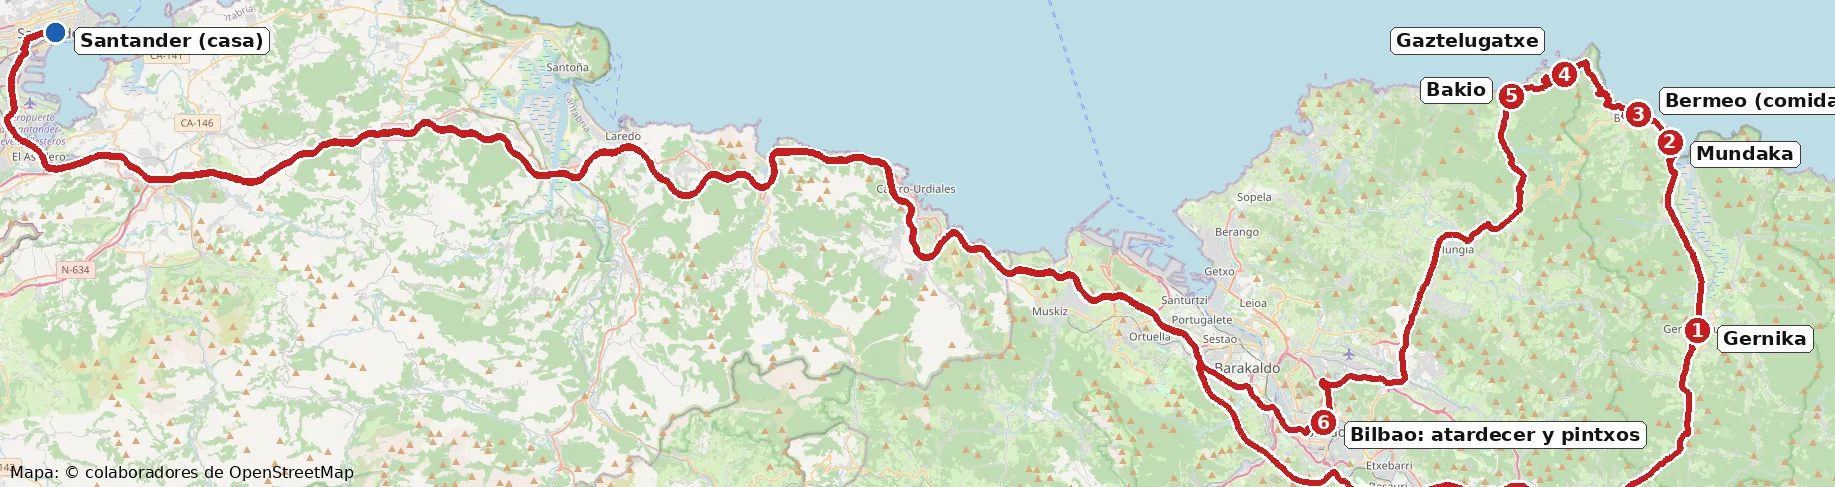
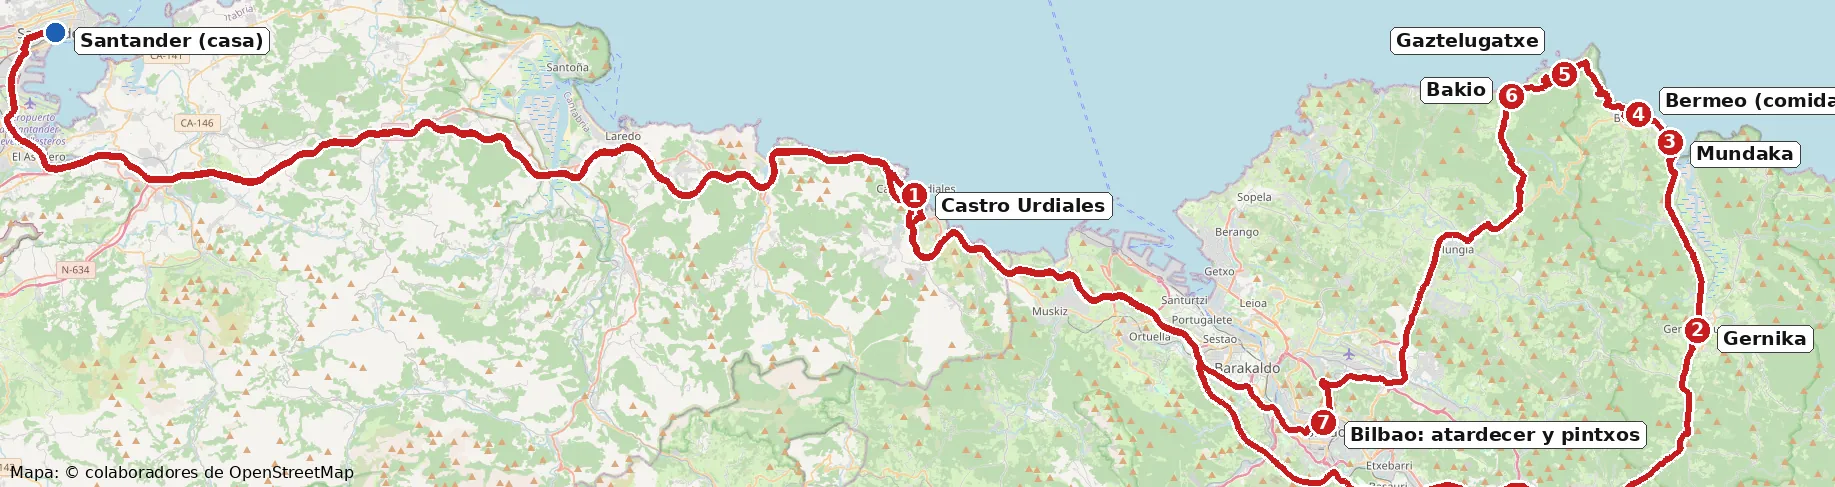
Jueves: el plan C añade la parada en Castro Urdiales antes de los pueblos
Claude-Session: https://claude.ai/code/session_01RZ6AxQRaqfFkeyowc2yCCk

diff --git a/js/datos.js b/js/datos.js
@@ -379,7 +379,7 @@ const DIAS = [
     items: ["fuentede", "aliva", "iguedri", "horcados", "mogrovejo", "potes"], alt: ["santacatalina", "toribio"] },
   { k: "jue", d: "Jueves", n: 15, f: "2026-10-15", wx: "☀", p: "0% lluvia", gente: 6, quien: "Los seis", t: "Pintxos en Bilbao y la vuelta de Gaztelugatxe", fuente: "met.no, 14-oct",
     meteo: [43.26, -2.93], marea: "bermeo",
-    nota: "Previsión del miércoles por la noche (met.no): sol todo el día, 24–26 °C en Bilbao y 21–23 °C en la costa, sin lluvia. Salida sobre las 10:45. Tres planes para votar: el C hace primero los pueblos (Gernika, Mundaka, Bermeo y Gaztelugatxe) y deja Bilbao para el atardecer y la cena de pintxos; el A y el B comen de pintxos en Bilbao y hacen la vuelta que recomienda Nacho por la tarde.",
+    nota: "Previsión del miércoles por la noche (met.no): sol todo el día, 24–26 °C en Bilbao y 21–23 °C en la costa, sin lluvia. Salida sobre las 10:45. Tres planes para votar: el C hace primero Castro y los pueblos (Gernika, Mundaka, Bermeo y Gaztelugatxe) y deja Bilbao para el atardecer y la cena de pintxos; el A y el B comen de pintxos en Bilbao y hacen la vuelta que recomienda Nacho por la tarde.",
     avisos: ["Gaztelugatxe: el jueves el acceso es libre, sin reserva. Aparcamientos: uno público de 22 plazas en Urizarreta, otro privado de pago al lado (Eneperi, unos 3,5 €) y el de Lurgorri (57 plazas), junto al acceso de Ermu. Se llenan de 10 a 16 h.",
       "La bajada a la ermita por Urizarreta son 1,2 km muy empinados y luego 241 escalones; la vuelta por Ermu, 1,6 km más suaves. Calzado cómodo y agua.",
       "Para salir de Bilbao hacia Bakio: puente de La Salve, junto al Guggenheim, y los túneles de Artxanda (de peaje) en dirección al aeropuerto y Mungia.",
@@ -415,7 +415,7 @@ const DIAS = [
 // Fotos de los puntos de cada ruta del miércoles (rutas/fotos/, de Wikimedia Commons; los créditos están en FOTOS)
 const FOTOS_RUTA = {
   ja: [["rutas/fotos/castro-1.webp", "Castro Urdiales"], ["rutas/fotos/cascoviejo-1.webp", "Plaza Nueva: aquí empiezan los pintxos"], ["rutas/fotos/guggenheim-3.webp", "Puppy, en el Guggenheim"], ["rutas/fotos/gaztelugatxe-1.webp", "San Juan de Gaztelugatxe"], ["rutas/fotos/gaztelugatxe-2.webp", "Los 241 escalones"], ["rutas/fotos/bermeo-1.webp", "Bermeo"], ["rutas/fotos/mundaka-1.webp", "Mundaka"]],
-  jc: [["rutas/fotos/mundaka-1.webp", "Mundaka"], ["rutas/fotos/bermeo-1.webp", "Bermeo, para comer"], ["rutas/fotos/gaztelugatxe-1.webp", "San Juan de Gaztelugatxe"], ["rutas/fotos/gaztelugatxe-2.webp", "Los 241 escalones"], ["rutas/fotos/guggenheim-1.webp", "Bilbao al atardecer"], ["rutas/fotos/cascoviejo-1.webp", "Cena de pintxos en la Plaza Nueva"]],
+  jc: [["rutas/fotos/castro-1.webp", "Castro Urdiales"], ["rutas/fotos/mundaka-1.webp", "Mundaka"], ["rutas/fotos/bermeo-1.webp", "Bermeo, para comer"], ["rutas/fotos/gaztelugatxe-1.webp", "San Juan de Gaztelugatxe"], ["rutas/fotos/gaztelugatxe-2.webp", "Los 241 escalones"], ["rutas/fotos/guggenheim-1.webp", "Bilbao al atardecer"], ["rutas/fotos/cascoviejo-1.webp", "Cena de pintxos en la Plaza Nueva"]],
   jb: [["rutas/fotos/guggenheim-1.webp", "El Guggenheim y la ría"], ["rutas/fotos/cascoviejo-1.webp", "Plaza Nueva y pintxos"], ["rutas/fotos/gaztelugatxe-1.webp", "San Juan de Gaztelugatxe"], ["rutas/fotos/bermeo-1.webp", "Bermeo"], ["rutas/fotos/mundaka-3.webp", "Mundaka y la ría de Urdaibai"]],
   r1: [["rutas/fotos/fuentede-1.webp", "El teleférico: 753 m en 4 minutos"], ["rutas/fotos/fuentede-2.webp", "La pista desde el Cable"], ["rutas/fotos/aliva-4.webp", "Las praderas de Áliva"], ["rutas/fotos/iguedri-4.webp", "Puertos de Áliva"], ["rutas/fotos/aliva-1.webp", "Bajando por Áliva"], ["rutas/fotos/iguedri-3.webp", "Áliva, entre los macizos central y oriental"], ["rutas/fotos/mogrovejo-1.webp", "Mogrovejo, de vuelta"]],
   r2: [["rutas/fotos/fuentede-1.webp", "El teleférico: 753 m en 4 minutos"], ["rutas/fotos/lloroza-1.webp", "Lagos de Lloroza"], ["rutas/fotos/horcados-4.webp", "La subida hacia Horcados Rojos"], ["rutas/fotos/aliva-4.webp", "Las praderas de Áliva"], ["rutas/fotos/iguedri-4.webp", "Puertos de Áliva"], ["rutas/fotos/aliva-1.webp", "Bajando por Áliva"], ["rutas/fotos/potes-1.webp", "Potes, para cenar"]],
@@ -501,22 +501,24 @@ const PLANES = {
       contras: ["No paráis en ningún pueblo antes de Bilbao", "Gaztelugatxe a media tarde, con algo más de gente"],
       sitios: ["guggenheim", "cascoviejo", "gaztelugatxe", "bermeo", "mundaka"],
       comer: ["r-gure-toki", "r-sorginzulo", "r-santa-maria", "r-txiriboga", "r-motrikes", "r-bacaicoa", "r-el-globo", "r-taberna-auzokoa"] },
-    { id: "p-jue-d", letra: "C", n: "Primero los pueblos (Gernika, Mundaka, Bermeo y Gaztelugatxe) y Bilbao por la tarde", rec: true,
-      lema: "La vuelta de Nacho al revés: los pueblos de Urdaibai de día, comida junto al mar en Bermeo, Gaztelugatxe por la tarde y Bilbao al atardecer para cenar de pintxos.",
-      ritmo: "Intenso", coche: "≈ 4 h en total", datos: ["☀ Sol y 24–26 °C", "🍽 Comida en Bermeo", "🍢 Pintxos de cena en Bilbao", "🏠 Vuelta sobre las 22:45"],
+    { id: "p-jue-d", letra: "C", n: "Castro, los pueblos (Gernika, Mundaka, Bermeo y Gaztelugatxe) y Bilbao por la tarde", rec: true,
+      lema: "Castro de camino, la vuelta de Nacho al revés con comida junto al mar en Bermeo, Gaztelugatxe a última hora de la tarde y Bilbao al atardecer para cenar de pintxos.",
+      ritmo: "Intenso", coche: "≈ 4 h 30 en total", datos: ["☀ Sol y 24–26 °C", "🍽 Comida en Bermeo", "🍢 Pintxos de cena en Bilbao", "🏠 Vuelta sobre las 23:00"],
       fotos: FOTOS_RUTA.jc,
-      horario: [["10:45", "Salida hacia Gernika (1 h 30 por la A-8, saliendo en Amorebieta)"],
-        ["12:15", "Gernika: el Árbol y la Casa de Juntas (abre de 10:00 a 14:00)"],
-        ["13:20", "Mundaka (20 min): el puerto y la vista de la ría de Urdaibai"],
-        ["14:00", "Bermeo (10 min): comida en el puerto. Pintxos en el Batun Batun (4,5) o menú en el Artza (4,2). El Toki Alai cierra los jueves"],
-        ["15:30", "San Juan de Gaztelugatxe (15 min): bajada, los 241 escalones, la ermita y la campana (unas 2 h). Desde Bermeo, el primer aparcamiento es el de Lurgorri"],
-        ["17:40", "Bakio de pasada y a Bilbao por Mungia y los túneles de Artxanda (40 min). Aparcad junto al Guggenheim"],
-        ["18:30", "El Guggenheim por fuera y la ría al atardecer (19:28): Puppy, la araña Mamá, el Zubizuri y el Arenal"],
-        ["19:30", "Cena de pintxos por el Casco Viejo: a esa hora hay más ambiente y el Motrikes ya ha vuelto a abrir"],
+      horario: [["10:45", "Salida hacia Castro Urdiales (50 min por la A-8)"],
+        ["11:35", "Castro Urdiales: el puerto, la iglesia de Santa María, el castillo-faro y el puente medieval (45 min). Parking Amestoy"],
+        ["12:20", "A Gernika (1 h, saliendo de la A-8 en Amorebieta)"],
+        ["13:20", "Gernika: el Árbol y la Casa de Juntas, que cierra a las 14:00"],
+        ["14:00", "Mundaka (20 min): el puerto y la vista de la ría de Urdaibai"],
+        ["14:45", "Bermeo (10 min): comida en el puerto. Pintxos en el Batun Batun (4,5) o menú en el Artza (4,2). El Toki Alai cierra los jueves"],
+        ["16:00", "San Juan de Gaztelugatxe (15 min): bajada, los 241 escalones, la ermita y la campana (unas 2 h). A partir de las 16:00 se aparca mejor; desde Bermeo, el primero es el de Lurgorri"],
+        ["18:15", "A Bilbao por Bakio, Mungia y los túneles de Artxanda (40 min). Aparcad junto al Guggenheim"],
+        ["19:00", "El Guggenheim y la ría con la última luz (el sol se pone a las 19:28)"],
+        ["19:45", "Cena de pintxos por el Casco Viejo"],
         ["21:45", "Vuelta a Santander (1 h)"]],
-      pros: ["Veis los pueblos de día y con la Casa de Juntas de Gernika abierta", "Coméis junto al mar en Bermeo", "Bilbao a la mejor hora para los pintxos, y la vuelta desde Bilbao es más corta (1 h)"],
-      contras: ["Gaztelugatxe a media tarde, con los aparcamientos aún llenos hasta las 16:00", "Sin Castro ni tour de San Mamés (llegáis a Bilbao después del último acceso)", "Los pintxos son de cena, no de comida"],
-      sitios: ["mundaka", "bermeo", "gaztelugatxe", "guggenheim", "cascoviejo"],
+      pros: ["Castro os pilla de camino: apenas añade coche", "Pueblos de día y comida junto al mar", "Gaztelugatxe cuando ya se vacían los aparcamientos", "Bilbao a la mejor hora para los pintxos, y la vuelta desde Bilbao es de 1 h"],
+      contras: ["Día largo: volvéis sobre las 23:00", "Gernika con prisa: la Casa de Juntas cierra a las 14:00", "Sin tour de San Mamés", "Si salís más tarde de las 11:00, saltaos Gernika o Castro"],
+      sitios: ["castro", "mundaka", "bermeo", "gaztelugatxe", "guggenheim", "cascoviejo"],
       comer: ["r-batun-batun", "r-artza", "r-gure-toki", "r-santa-maria", "r-txiriboga", "r-motrikes", "r-bacaicoa"] }
   ],
   mie: [
@@ -665,7 +667,7 @@ const PLATOS = [
 const ESPECIAL = {
   k: "jue", fecha: "2026-10-15", tab: "⭐ Jueves", def: "c", orden: ["c", "a", "b"],
   titulo: "Jueves 15: pintxos en Bilbao y la vuelta de Gaztelugatxe",
-  intro: "Tres planes: el C (primero los pueblos de Urdaibai y Gaztelugatxe, y Bilbao al atardecer para cenar de pintxos), el A (Castro, pintxos de comida en Bilbao y por la tarde la vuelta que recomienda Nacho) y el B (como el A, sin Castro). Cada parada tiene su botón para abrirla en Google Maps.",
+  intro: "Tres planes: el C (Castro, los pueblos de Urdaibai y Gaztelugatxe, y Bilbao al atardecer para cenar de pintxos), el A (Castro, pintxos de comida en Bilbao y por la tarde la vuelta que recomienda Nacho) y el B (como el A, sin Castro). Cada parada tiene su botón para abrirla en Google Maps.",
   tiempo: "☀ Sol todo el día · 24–26 °C en Bilbao y 21–23 °C en la costa · sin lluvia",
   mapa: "rutas/jueves-mapa.webp",
   planes: {
@@ -682,15 +684,17 @@ const ESPECIAL = {
       { h: "19:10", t: "Bermeo", s: "bermeo", d: "El puerto viejo con la puesta de sol (19:28).", c: [43.4207962, -2.7197421], modo: "driving" },
       { h: "19:45", t: "Mundaka y Gernika", s: "mundaka", d: "La ría de Urdaibai desde Mundaka y, ya de noche, Gernika. Cena de pintxos en la Taberna Auzokoa (Gernika) o en el Batun Batun (Bermeo).", c: [43.3142186, -2.6774263], modo: "driving", r: "r-taberna-auzokoa" },
       { h: "21:00", t: "Vuelta a casa", d: "1 h 30–1 h 45 por la A-8. Conduce quien no haya bebido.", c: [43.4619, -3.8066], modo: "driving" }] },
-    c: { n: "Plan C · pueblos y Bilbao de noche", vuelta: "22:45", mapa: "rutas/jueves-mapa-c.webp", paradas: [
-      { h: "10:45", t: "Salida hacia Gernika", d: "1 h 30 por la A-8, saliendo en Amorebieta.", c: [43.3132097, -2.6796198], modo: "driving" },
-      { h: "12:15", t: "Gernika", d: "El Árbol y la Casa de Juntas, que abre de 10:00 a 14:00. Unos 45 min.", c: [43.3132097, -2.6796198], modo: "walking" },
-      { h: "13:20", t: "Mundaka", s: "mundaka", d: "El puerto y la vista de la ría de Urdaibai. Media hora.", c: [43.4072, -2.6983], modo: "driving" },
-      { h: "14:00", t: "Comer en Bermeo", s: "bermeo", d: "En el puerto viejo: pintxos en el Batun Batun (4,5) o menú del día en el Artza (4,2). El Toki Alai cierra los jueves.", c: [43.4207962, -2.7197421], modo: "driving", r: "r-batun-batun" },
-      { h: "15:30", t: "San Juan de Gaztelugatxe", s: "gaztelugatxe", d: "Bajada, los 241 escalones, la ermita y la campana. Unas 2 h. Viniendo de Bermeo, el primer aparcamiento es el de Lurgorri; si está lleno, el de pago de Eneperi.", c: [43.4407664, -2.7707756], modo: "driving", ancla: "esp-gaztelugatxe" },
-      { h: "17:40", t: "A Bilbao", d: "Bakio de pasada, Mungia y los túneles de Artxanda (de peaje). 40 min. Aparcad junto al Guggenheim: plaza Euskadi o Palacio Euskalduna.", c: [43.2671467, -2.93606], modo: "driving" },
-      { h: "18:30", t: "El Guggenheim y la ría al atardecer", s: "guggenheim", d: "Puppy, la araña Mamá, el Zubizuri y el Arenal. El sol se pone a las 19:28.", c: [43.267678, -2.9345], modo: "walking" },
-      { h: "19:30", t: "Cena de pintxos por el Casco Viejo", d: "A esa hora hay más ambiente, y el Motrikes y la Taberna Basaras ya han vuelto a abrir.", ancla: "esp-pintxos" },
+    c: { n: "Plan C · Castro, pueblos y Bilbao de noche", vuelta: "23:00", mapa: "rutas/jueves-mapa-c.webp", paradas: [
+      { h: "10:45", t: "Salida hacia Castro Urdiales", d: "50 min por la A-8. Se aparca en el parking subterráneo Amestoy, junto al paseo.", c: [43.3804468, -3.2167861], modo: "driving" },
+      { h: "11:35", t: "Castro Urdiales", s: "castro", d: "El puerto, la iglesia gótica de Santa María, el castillo-faro de Santa Ana y el puente medieval. 45 min.", c: [43.3829, -3.2151], modo: "walking" },
+      { h: "12:20", t: "A Gernika", d: "1 h por la A-8, saliendo en Amorebieta.", c: [43.3132097, -2.6796198], modo: "driving" },
+      { h: "13:20", t: "Gernika", d: "El Árbol y la Casa de Juntas, que cierra a las 14:00.", c: [43.3132097, -2.6796198], modo: "walking" },
+      { h: "14:00", t: "Mundaka", s: "mundaka", d: "El puerto y la vista de la ría de Urdaibai. 20 min.", c: [43.4072, -2.6983], modo: "driving" },
+      { h: "14:45", t: "Comer en Bermeo", s: "bermeo", d: "En el puerto viejo: pintxos en el Batun Batun (4,5) o menú en el Artza (4,2). El Toki Alai cierra los jueves.", c: [43.4207962, -2.7197421], modo: "driving", r: "r-batun-batun" },
+      { h: "16:00", t: "San Juan de Gaztelugatxe", s: "gaztelugatxe", d: "Bajada, los 241 escalones, la ermita y la campana. Unas 2 h. A esta hora se aparca mejor; viniendo de Bermeo, el primero es el de Lurgorri.", c: [43.4407664, -2.7707756], modo: "driving", ancla: "esp-gaztelugatxe" },
+      { h: "18:15", t: "A Bilbao", d: "Bakio, Mungia y los túneles de Artxanda (de peaje). 40 min. Aparcad junto al Guggenheim: plaza Euskadi o Palacio Euskalduna.", c: [43.2671467, -2.93606], modo: "driving" },
+      { h: "19:00", t: "El Guggenheim y la ría con la última luz", s: "guggenheim", d: "Puppy, la araña Mamá y el Zubizuri. El sol se pone a las 19:28.", c: [43.267678, -2.9345], modo: "walking" },
+      { h: "19:45", t: "Cena de pintxos por el Casco Viejo", d: "A esa hora hay más ambiente, y el Motrikes y la Taberna Basaras ya han vuelto a abrir.", ancla: "esp-pintxos" },
       { h: "21:45", t: "Vuelta a casa", d: "1 h por la A-8. Conduce quien no haya bebido.", c: [43.4619, -3.8066], modo: "driving" }] },
     b: { n: "Plan B · Bilbao con calma", vuelta: "21:45", mapa: "rutas/jueves-mapa-b.webp", paradas: [
       { h: "10:45", t: "Salida directa a Bilbao", d: "1 h por la A-8. Aparcad junto al Guggenheim: parking de la plaza Euskadi (Mazarredo 68) o el del Palacio Euskalduna.", c: [43.2671467, -2.93606], modo: "driving" },

diff --git a/index.html b/index.html
@@ -529,10 +529,10 @@ dialog.galeria{max-width:none;width:100vw;height:100dvh;max-height:none;margin:0
 
 <div class="toast" id="toast" role="status" aria-live="polite"></div>
 
-<script src="js/generado.js?v=23"></script>
-<script src="js/datos.js?v=23"></script>
-<script src="js/notas.js?v=23"></script>
-<script src="js/restaurantes.js?v=23"></script>
-<script src="js/app.js?v=23"></script>
+<script src="js/generado.js?v=24"></script>
+<script src="js/datos.js?v=24"></script>
+<script src="js/notas.js?v=24"></script>
+<script src="js/restaurantes.js?v=24"></script>
+<script src="js/app.js?v=24"></script>
 </body>
 </html>

diff --git a/CLAUDE.md b/CLAUDE.md
@@ -19,7 +19,7 @@ Está en `js/datos.js` (`DIAS`). Resumen:
 - **Lun 12 (festivo):** dunas de Liencres, Urros y la Arnía con la bajamar de las 12:08 (coef. 85), Santillana, Comillas y atardecer en San Vicente u Oyambre.
 - **Mar 13:** por la mañana, los 4, Monte Buciero y anchoas en Santoña. Las escaleras del Faro del Caballo están CERRADAS desde dic-2025. Por la tarde los 6 en Santander.
 - **Mié 14:** Fuente Dé (teleférico a las 12:00). Tres rutas para votar en `PLANES.mie` (con fotos, mapa topográfico y GPX de `rutas/`): 1) solo la bajada por Áliva e Igüedri, 2) hasta el cruce de Peña Vieja y bajada (recomendada) y 3) Horcados Rojos ida y vuelta con bajada en teleférico.
-- **Jue 15:** tres planes en `PLANES.jue`: C (`p-jue-d`, recomendado: primero los pueblos, Gernika, Mundaka, comida en Bermeo y Gaztelugatxe a las 15:30, y Bilbao al atardecer con cena de pintxos; vuelta a las 22:45), A (Castro, pintxos de comida en Bilbao y la vuelta que recomienda Nacho, amigo, por la tarde) y B (como el A sin Castro). El plan del baño en Bakio se descartó el 15-oct. Pestaña especial «⭐ Jueves» (`ESPECIAL`, plan por defecto C, con un mapa por plan).
+- **Jue 15:** tres planes en `PLANES.jue`: C (`p-jue-d`, recomendado: Castro, Gernika, Mundaka, comida en Bermeo, Gaztelugatxe a las 16:00 y Bilbao al atardecer con cena de pintxos; vuelta a las 23:00), A (Castro, pintxos de comida en Bilbao y la vuelta que recomienda Nacho, amigo, por la tarde) y B (como el A sin Castro). El plan del baño en Bakio se descartó el 15-oct. Pestaña especial «⭐ Jueves» (`ESPECIAL`, plan por defecto C, con un mapa por plan).
 - **Vie 16:** se van Pedre, Fran y Niggi. El Soplao y El Castillo o Altamira; por la tarde, a Arenas de Iguña.
 - **Sáb 17 (3):** Bárcena Mayor, cocido y Vega de Pas.
 - **Dom 18:** vuelta.
